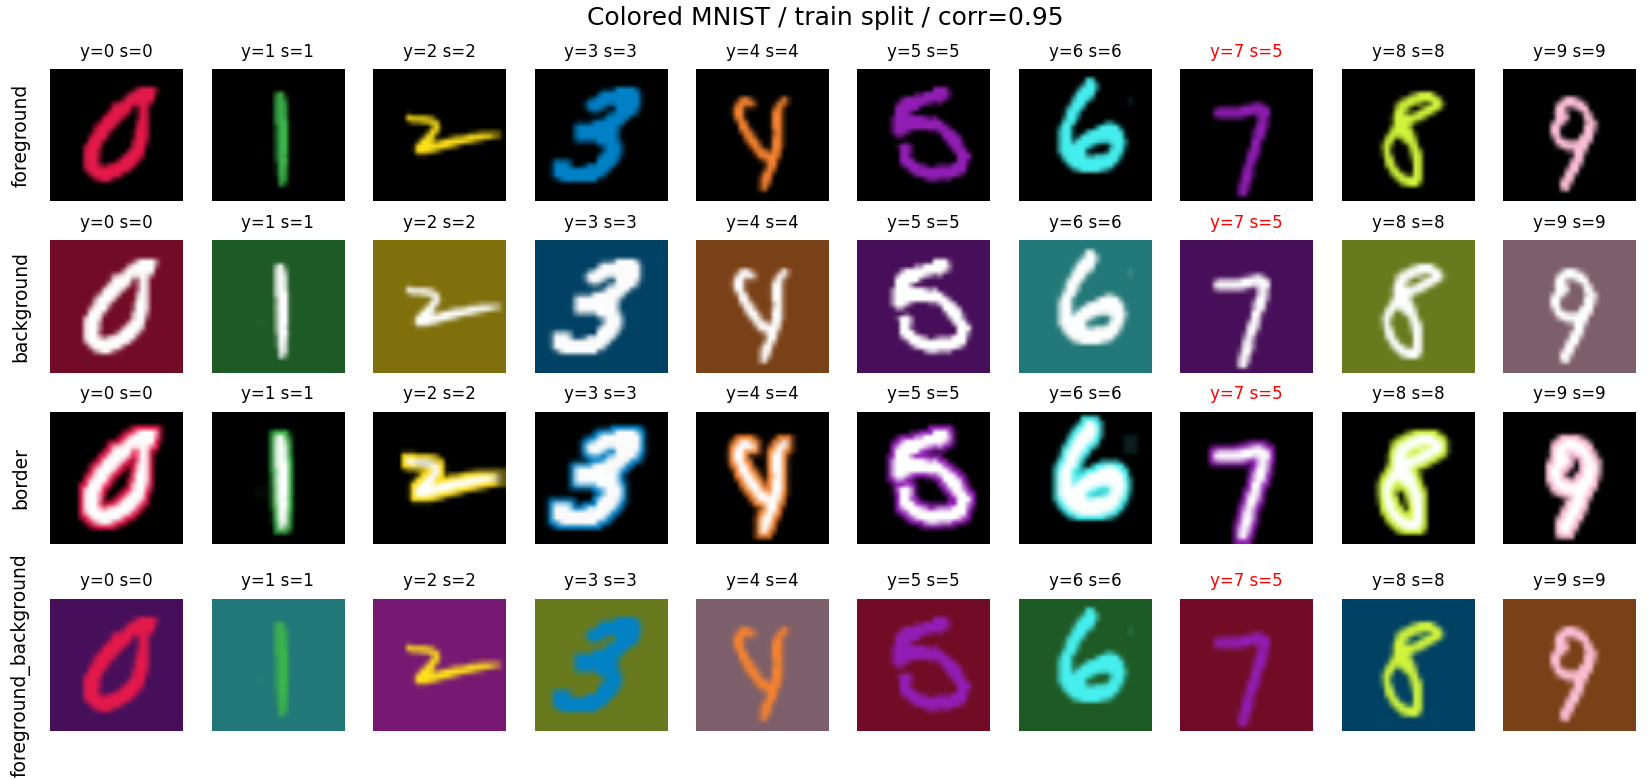
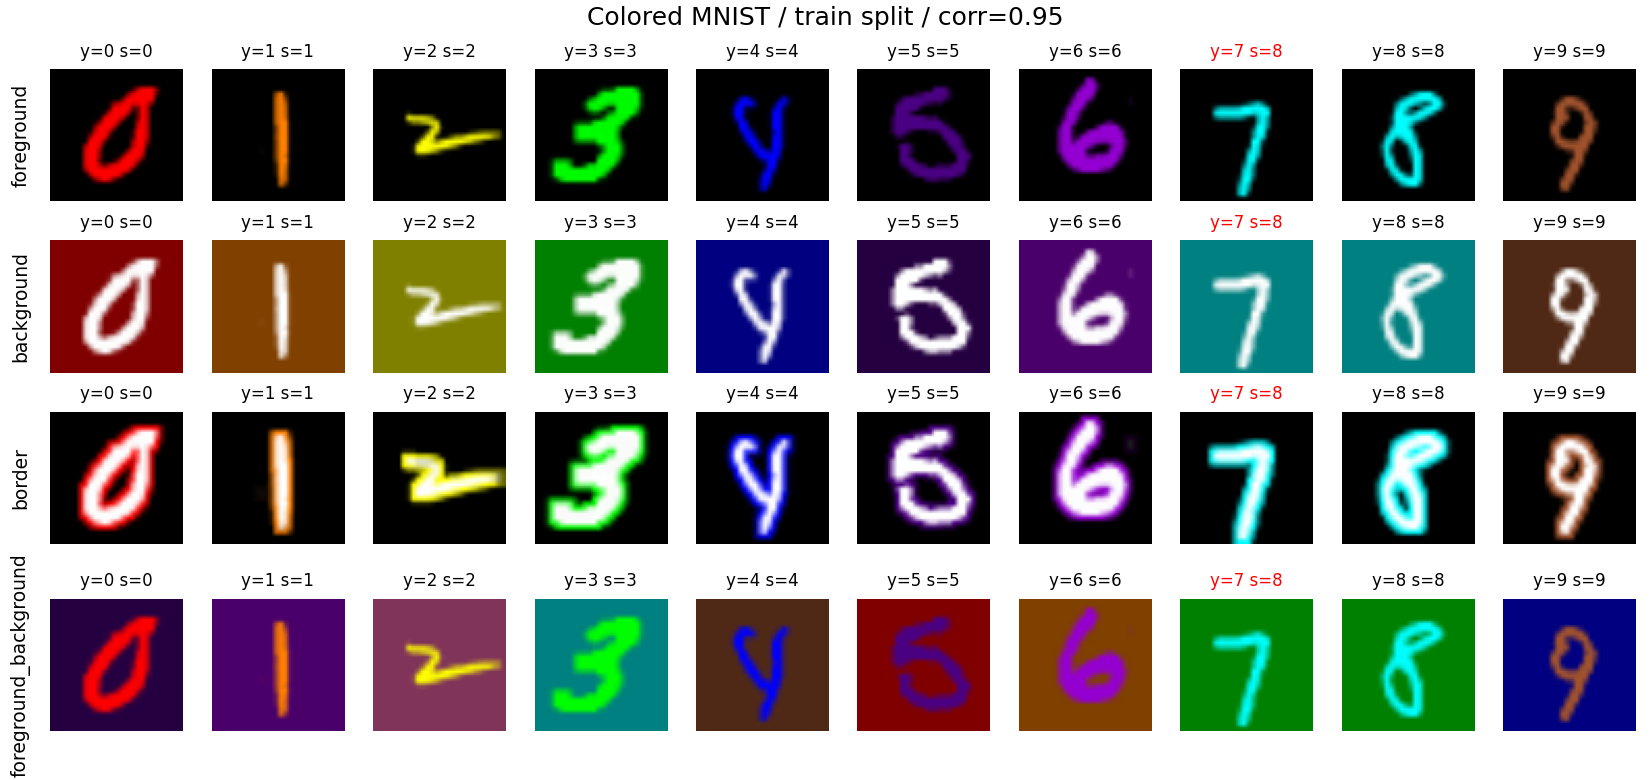
Update: two-color pairing, correlation presets and comparison image for Colored MNIST

diff --git a/data.py b/data.py
@@ -1,14 +1,16 @@
 """Dataset construction for shortcut-learning experiments.
 
 Datasets:
-- colored_mnist: 10-way digit classification, one color per digit, configurable
-  color-label correlation and where the color is painted (see COLOR_MODES).
+- colored_mnist: 10-way digit classification. Each digit has a main and an
+  alternate color (see COLOR_PAIRINGS); the main:alternate ratio is configurable
+  (see CORR_PRESETS), as is where the color is painted (see COLOR_MODES).
 - waterbirds: grodino/waterbirds, image label and background place.
 
 `build_datasets(cfg)` returns {"train", "val", "test"} datasets whose items are
 dicts with `pixel_values`, `labels`, `spurious`, `index` (and optionally
 `cf_pixel_values`). Each dataset also exposes `labels` and `spurious` arrays and
 `num_classes`; both `labels` and `spurious` take values in [0, num_classes).
+`groups` lists the (y, s) pairs that can occur by construction.
 
 Run `python data.py` to save example images for each Colored MNIST color mode.
 """
@@ -27,11 +29,21 @@ IMAGENET_MEAN = (0.485, 0.456, 0.406)
 IMAGENET_STD = (0.229, 0.224, 0.225)
 SPLIT_SEEDS = {"train": 100, "val": 200, "test": 300}
 NUM_CLASSES = {"colored_mnist": 10, "waterbirds": 2}
-# One distinct RGB color per digit; spurious attribute s indexes this palette.
+# Fixed RGB palette; spurious attribute s indexes it and digit k's main color is k.
+# Rainbow (ROYGBIV) plus three chromatic colors, so every color shows on black.
+MNIST_COLOR_NAMES = ("red", "orange", "yellow", "green", "blue", "indigo", "violet",
+                     "pink", "cyan", "brown")
 MNIST_COLORS = np.array([
-    (230, 25, 75), (60, 180, 75), (255, 225, 25), (0, 130, 200), (245, 130, 48),
-    (145, 30, 180), (70, 240, 240), (240, 50, 230), (210, 245, 60), (250, 190, 212),
+    (255, 0, 0), (255, 127, 0), (255, 255, 0), (0, 255, 0), (0, 0, 255),
+    (75, 0, 130), (148, 0, 211), (255, 105, 180), (0, 255, 255), (160, 82, 45),
 ], dtype=np.float32)
+# P(main color) for the training split; val/test default to 0.5 (no color cue
+# beyond the two-color pairing).
+CORR_PRESETS = {"strong": .95, "medium": .80, "weak": .65}
+# How digit k's alternate color is chosen:
+#   next: color (k + 1) % 10.
+#   random: a seeded derangement, so no digit's alternate equals its main color.
+COLOR_PAIRINGS = ("next", "random")
 WHITE = np.array((255, 255, 255), dtype=np.float32)
 BLACK = np.zeros(3, dtype=np.float32)
 # Backgrounds are dimmed so the digit always stays brighter than its surroundings.
@@ -43,6 +55,19 @@ BACKGROUND_SCALE = 0.5
 #   foreground_background: colored digit on a (dimmed) background of a second
 #     color, MNIST_COLORS[(s + 5) % 10], so digit and background never share a hue.
 COLOR_MODES = ("foreground", "background", "border", "foreground_background")
+
+
+def alternate_colors(pairing="next", seed=0, k=10):
+    """Return alt[k]: the alternate color index for each digit (never k itself)."""
+    if pairing == "next":
+        return (np.arange(k) + 1) % k
+    if pairing == "random":
+        rng = np.random.default_rng(seed)
+        while True:
+            alt = rng.permutation(k)
+            if not np.any(alt == np.arange(k)):
+                return alt
+    raise ValueError(f"color pairing must be one of {COLOR_PAIRINGS}")
 
 
 def image_transform(size: int, train: bool = False, augment: bool = False):
@@ -57,15 +82,16 @@ class ColoredMNIST(Dataset):
     """Stable colors assigned once, independently for each disjoint split.
 
     y = digit 0..9. s = color index 0..9 into MNIST_COLORS.
-    P(s == y) = correlation; otherwise s is uniform over the other 9 colors.
+    Each digit y uses only two colors: main color y with probability
+    `correlation`, otherwise alternate color `alt_colors[y]`.
     `color_mode` (one of COLOR_MODES) decides which region carries the color.
-    Counterfactual repaints the same digit pixels with a fixed, per-example
-    random color different from s (no new digit is generated).
+    Counterfactual repaints the same digit pixels with the digit's other color
+    (main <-> alternate); no new digit is generated.
     """
     num_classes = NUM_CLASSES["colored_mnist"]
 
     def __init__(self, base, indices, correlation, seed, size, counterfactual=False,
-                 color_mode="foreground"):
+                 color_mode="foreground", alt_colors=None):
         if not 0 <= correlation <= 1:
             raise ValueError("correlation must be in [0,1]")
         if color_mode not in COLOR_MODES:
@@ -76,12 +102,12 @@ class ColoredMNIST(Dataset):
         digit_labels = np.asarray(base["label"], dtype=np.int64)
         self.labels = digit_labels[self.indices]
         k = self.num_classes
+        alt = alternate_colors() if alt_colors is None else np.asarray(alt_colors, dtype=np.int64)
+        self.groups = [(y, int(s)) for y in range(k) for s in (y, alt[y])]
         rng = np.random.default_rng(seed)
         aligned = rng.random(len(self.indices)) < correlation
-        # A nonzero offset mod k picks uniformly among the colors other than y (or s).
-        other = (self.labels + rng.integers(1, k, len(self.indices))) % k
-        self.spurious = np.where(aligned, self.labels, other).astype(np.int64)
-        self.cf_spurious = (self.spurious + rng.integers(1, k, len(self.indices))) % k
+        self.spurious = np.where(aligned, self.labels, alt[self.labels]).astype(np.int64)
+        self.cf_spurious = np.where(aligned, alt[self.labels], self.labels).astype(np.int64)
         self.transform = image_transform(size)
         self.counterfactual = counterfactual
 
@@ -121,6 +147,7 @@ class ColoredMNIST(Dataset):
 class Waterbirds(Dataset):
     """Hugging Face grodino/waterbirds: label 0/1 and place 0/1."""
     num_classes = NUM_CLASSES["waterbirds"]
+    groups = [(y, s) for y in range(2) for s in range(2)]
 
     def __init__(self, hf_split, size, train=False, augment=False):
         self.base = hf_split
@@ -152,12 +179,14 @@ def build_datasets(cfg):
             raise ValueError(f"mnist_val_size must be between 1 and {n-1}")
         ids = {"train": indices[n_val:], "val": indices[:n_val],
                "test": np.arange(len(raw["test"]))}
+        alt = alternate_colors(cfg.get("color_pairing", "next"), cfg["seed"],
+                               NUM_CLASSES["colored_mnist"])
         return {name: ColoredMNIST(
             base=raw["test"] if name == "test" else raw["train"],
             indices=ids[name], correlation=cfg[f"{name}_corr"],
             seed=cfg["seed"] + SPLIT_SEEDS[name], size=cfg["image_size"],
             counterfactual=(name != "train"),
-            color_mode=cfg.get("color_mode", "foreground")) for name in ("train", "val", "test")}
+            color_mode=cfg.get("color_mode", "foreground"), alt_colors=alt) for name in ("train", "val", "test")}
 
     if cfg["dataset"] == "waterbirds":
         raw = load_dataset("grodino/waterbirds")
@@ -168,10 +197,31 @@ def build_datasets(cfg):
     raise ValueError(f"Unsupported dataset: {cfg['dataset']}")
 
 
+def parse_corr(value):
+    """argparse type: a CORR_PRESETS name or a float in [0, 1]."""
+    if value in CORR_PRESETS:
+        return CORR_PRESETS[value]
+    try:
+        x = float(value)
+    except ValueError:
+        raise argparse.ArgumentTypeError(
+            f"expected a float or one of {list(CORR_PRESETS)}, got {value!r}") from None
+    if not 0 <= x <= 1:
+        raise argparse.ArgumentTypeError("correlation must be in [0, 1]")
+    return x
+
+
 def to_image(pixel_values):
     """Undo ImageNet normalization: [3,H,W] tensor -> [H,W,3] float array in [0,1]."""
     x = pixel_values.permute(1, 2, 0).numpy()
     return (x * np.asarray(IMAGENET_STD) + np.asarray(IMAGENET_MEAN)).clip(0, 1)
+
+
+def example_cfg(cfg=None):
+    """Training-default Colored MNIST config, overridden by `cfg`."""
+    return {"dataset": "colored_mnist", "seed": 42, "mnist_val_size": 5000,
+            "train_corr": CORR_PRESETS["strong"], "val_corr": .50, "test_corr": .50,
+            "image_size": 64, **(cfg or {})}
 
 
 def save_colored_mnist_examples(out_file, color_modes=COLOR_MODES, split="train",
@@ -184,9 +234,7 @@ def save_colored_mnist_examples(out_file, color_modes=COLOR_MODES, split="train"
     """
     import matplotlib.pyplot as plt
 
-    cfg = {"dataset": "colored_mnist", "seed": 42, "mnist_val_size": 5000,
-           "train_corr": .95, "val_corr": .50, "test_corr": .10, "image_size": 64,
-           **(cfg or {})}
+    cfg = example_cfg(cfg)
     k = NUM_CLASSES["colored_mnist"]
     rows = len(color_modes) * per_digit
     fig, axes = plt.subplots(rows, k, figsize=(k * 1.1, rows * 1.3), squeeze=False,
@@ -214,23 +262,75 @@ def save_colored_mnist_examples(out_file, color_modes=COLOR_MODES, split="train"
     print(f"Saved {out_file}")
 
 
+def save_corr_comparison(out_file, color_mode="foreground", samples=20, cols=5, cfg=None):
+    """Compare CORR_PRESETS on the train split: one row per preset, one column per digit.
+
+    Each cell is a mosaic of the first `samples` training images of that digit,
+    so the share of alternate-color digits is visible at a glance. The same
+    samples appear in every row; a sample with the alternate color under a
+    stronger preset keeps it under weaker ones (the Bernoulli draws are shared).
+    """
+    import matplotlib.pyplot as plt
+
+    cfg = example_cfg({"image_size": 28, **(cfg or {}), "color_mode": color_mode})
+    k = NUM_CLASSES["colored_mnist"]
+    fig, axes = plt.subplots(len(CORR_PRESETS), k, figsize=(k * 1.4, len(CORR_PRESETS) * 1.45),
+                             squeeze=False, layout="constrained")
+    for r, (name, corr) in enumerate(CORR_PRESETS.items()):
+        ds = build_datasets({**cfg, "train_corr": corr})["train"]
+        for d in range(k):
+            chosen = np.flatnonzero(ds.labels == d)[:samples]
+            tiles = [to_image(ds[int(i)]["pixel_values"]) for i in chosen]
+            tiles += [np.zeros_like(tiles[0])] * (-len(tiles) % cols)
+            mosaic = np.concatenate([np.concatenate(tiles[j:j + cols], axis=1)
+                                     for j in range(0, len(tiles), cols)], axis=0)
+            n_alt = int((ds.spurious[chosen] != d).sum())
+            ax = axes[r, d]
+            ax.imshow(mosaic)
+            ax.set_xticks([])
+            ax.set_yticks([])
+            ax.set_title(f"{d}: alt {n_alt}/{len(chosen)}", fontsize=8)
+        actual = float((ds.labels == ds.spurious).mean())
+        axes[r, 0].set_ylabel(f"{name}\n{corr:.0%}:{1 - corr:.0%}\nactual {actual:.3f}", fontsize=9)
+    fig.suptitle(f"Colored MNIST train split / main:alternate color ratio / {color_mode} / "
+                 f"pairing={cfg.get('color_pairing', 'next')}")
+    out_file = Path(out_file)
+    out_file.parent.mkdir(parents=True, exist_ok=True)
+    fig.savefig(out_file, dpi=150)
+    plt.close(fig)
+    print(f"Saved {out_file}")
+
+
 def main():
-    parser = argparse.ArgumentParser(description="Save example images for each Colored MNIST color mode.")
+    parser = argparse.ArgumentParser(
+        description="Save Colored MNIST example images: one per color mode, plus a "
+                    "strong/medium/weak correlation comparison.")
     parser.add_argument("--output", default="images/colored_mnist_examples.png")
     parser.add_argument("--color-modes", nargs="+", choices=COLOR_MODES, default=list(COLOR_MODES))
     parser.add_argument("--split", choices=["train", "val", "test"], default="train")
     parser.add_argument("--per-digit", type=int, default=1, help="samples shown per digit and mode")
-    parser.add_argument("--corr", type=float, default=None,
-                        help="color-digit correlation for the chosen split (default: training default)")
+    parser.add_argument("--corr", type=parse_corr, default=None,
+                        help="P(main color) for the chosen split: a float or one of "
+                             f"{list(CORR_PRESETS)} (default: training default)")
+    parser.add_argument("--color-pairing", choices=COLOR_PAIRINGS, default="next")
     parser.add_argument("--seed", type=int, default=42)
     parser.add_argument("--image-size", type=int, default=64)
+    parser.add_argument("--corr-output", default="images/colored_mnist_corr_comparison.png",
+                        help="strong/medium/weak comparison image; pass '' to skip")
+    parser.add_argument("--corr-mode", choices=COLOR_MODES, default="foreground",
+                        help="color mode used in the comparison image")
+    parser.add_argument("--corr-samples", type=int, default=20,
+                        help="samples per digit in each comparison cell")
     args = parser.parse_args()
-    if args.per_digit <= 0:
-        parser.error("--per-digit must be positive")
-    cfg = {"seed": args.seed, "image_size": args.image_size}
+    if args.per_digit <= 0 or args.corr_samples <= 0:
+        parser.error("--per-digit and --corr-samples must be positive")
+    cfg = {"seed": args.seed, "image_size": args.image_size, "color_pairing": args.color_pairing}
     if args.corr is not None:
         cfg[f"{args.split}_corr"] = args.corr
     save_colored_mnist_examples(args.output, args.color_modes, args.split, args.per_digit, cfg)
+    if args.corr_output:
+        save_corr_comparison(args.corr_output, args.corr_mode, args.corr_samples,
+                             cfg={"seed": args.seed, "color_pairing": args.color_pairing})
 
 
 if __name__ == "__main__":

diff --git a/shortcut_experiment.py b/shortcut_experiment.py
@@ -22,7 +22,8 @@ from torch import nn
 from torch.utils.data import DataLoader, Subset
 from torchvision import models
 
-from data import COLOR_MODES, NUM_CLASSES, build_datasets
+from data import (COLOR_MODES, COLOR_PAIRINGS, CORR_PRESETS, NUM_CLASSES, build_datasets,
+                  parse_corr)
 
 
 def seed_everything(seed: int):
@@ -231,17 +232,18 @@ def evaluate(model, loader, device, amp=False):
     result = {"loss": ratio(loss_sum, total), "acc": ratio(correct, total),
               "aligned_acc": ratio(aligned_ok, aligned_n),
               "conflicting_acc": ratio(conflicted_ok, conflicted_n)}
+    # Only groups that can occur by construction (e.g. 2 colors per digit) are reported.
     populated = []
-    for yi in range(k):
-        for si in range(k):
-            key = f"g{yi}{si}"
-            v = ratio(int(group_correct[yi, si]), int(group_total[yi, si]))
-            result[f"{key}_acc"] = v
-            result[f"{key}_n"] = int(group_total[yi, si])
-            if group_total[yi, si] > 0:
-                populated.append(v)
-    # Require all k*k groups; otherwise WGA is undefined rather than inflated.
-    result["wga"] = min(populated) if len(populated) == k * k else float("nan")
+    for yi, si in loader.dataset.groups:
+        key = f"g{yi}{si}"
+        v = ratio(int(group_correct[yi, si]), int(group_total[yi, si]))
+        result[f"{key}_acc"] = v
+        result[f"{key}_n"] = int(group_total[yi, si])
+        if group_total[yi, si] > 0:
+            populated.append(v)
+    # Require every possible group; otherwise WGA is undefined rather than inflated.
+    result["wga"] = (min(populated) if len(populated) == len(loader.dataset.groups)
+                     else float("nan"))
     result["cf_acc"] = ratio(cf_ok, cf_n)
     result["cf_flip_rate"] = ratio(cf_flips, cf_n)
     result["cf_acc_drop"] = result["acc"] - result["cf_acc"] if cf_n else float("nan")
@@ -325,7 +327,7 @@ def configure_from_args(args):
             "seed": args.seed, "image_size": args.image_size,
             "train_corr": args.train_corr, "val_corr": args.val_corr,
             "test_corr": args.test_corr, "mnist_val_size": args.mnist_val_size,
-            "color_mode": args.color_mode,
+            "color_mode": args.color_mode, "color_pairing": args.color_pairing,
             "pretrained": args.pretrained, "augment": args.augment,
             "lr": args.lr, "weight_decay": args.weight_decay,
             "batch_size": args.batch_size, "num_workers": args.num_workers,
@@ -464,12 +466,15 @@ def main():
     train.add_argument("--seed", type=int, default=42)
     train.add_argument("--image-size", type=int, default=None,
                        help="64 for colored_mnist; 128 for waterbirds by default")
-    train.add_argument("--train-corr", type=float, default=.95)
-    train.add_argument("--val-corr", type=float, default=.50)
-    train.add_argument("--test-corr", type=float, default=.10)
+    corr_help = "colored_mnist: P(main color), a float or one of " + str(list(CORR_PRESETS))
+    train.add_argument("--train-corr", type=parse_corr, default="strong", help=corr_help)
+    train.add_argument("--val-corr", type=parse_corr, default=.50, help=corr_help)
+    train.add_argument("--test-corr", type=parse_corr, default=.50, help=corr_help)
     train.add_argument("--mnist-val-size", type=int, default=5000)
     train.add_argument("--color-mode", choices=COLOR_MODES, default="foreground",
                        help="colored_mnist only: region painted with the shortcut color")
+    train.add_argument("--color-pairing", choices=COLOR_PAIRINGS, default="next",
+                       help="colored_mnist only: how each digit's alternate color is chosen")
     train.add_argument("--pretrained", action="store_true",
                        help="use ImageNet pretrained weights (recommended for Waterbirds)")
     train.add_argument("--augment", action="store_true", help="horizontal flips on Waterbirds train only")

diff --git a/README.md b/README.md
@@ -14,12 +14,15 @@ Use a PyTorch+TorchVision version combination appropriate for your system/CUDA. 
 
 ```bash
 # Colored MNIST: 10-way target = digit 0-9
-# shortcut = color index 0-9 (one fixed color per digit); train P(shortcut==target)=0.95
+# shortcut = color index 0-9; each digit has a main color and one alternate color
+# --train-corr strong|medium|weak = main:alternate 95:05 | 80:20 | 65:35 (or any float); val/test 50:50
+# --color-pairing next|random = alternate color of digit k is color k+1, or a seeded random pairing
 python shortcut_experiment.py train --dataset colored_mnist --model resnet18 --epochs 20 --output runs/cm_resnet
 python shortcut_experiment.py train --dataset colored_mnist --model vgg11_bn --epochs 20 --output runs/cm_vgg
 # --color-mode chooses where the shortcut color is painted (default: foreground)
 #   foreground | background | border | foreground_background
 python shortcut_experiment.py train --dataset colored_mnist --model resnet18 --color-mode background --output runs/cm_resnet_bg
+python shortcut_experiment.py train --dataset colored_mnist --model resnet18 --train-corr weak --color-pairing random --output runs/cm_resnet_weak
 # Preview the dataset (saved to images/colored_mnist_examples.png by default)
 python data.py
 python data.py --color-modes border background --split test --per-digit 2 --output images/test_examples.png
@@ -37,6 +40,10 @@ Default image size: 64 for Colored MNIST and 128 for Waterbirds (can override wi
 ![Colored MNIST examples for each color mode](images/colored_mnist_examples.png)
 
 One row per `--color-mode`; columns are digits 0-9 and the same samples appear in every row, so only the colored region differs. Titles show target `y` and shortcut color `s`; red titles mark conflicting samples (`s != y`). Regenerate with `python data.py`.
+
+![Main vs alternate color share for strong/medium/weak](images/colored_mnist_corr_comparison.png)
+
+`--train-corr` presets on the train split (`foreground` mode, `--color-pairing next`). Each cell shows the first 20 training images of one digit; `alt n/20` counts those painted with the alternate color, and the row label gives the preset ratio and the actual split-wide share of main colors. The same images appear in every row, and an image that gets the alternate color under a stronger preset keeps it under weaker ones. `python data.py` writes both images; `--corr-mode`, `--corr-samples` and `--corr-output ''` (skip) control this one.
 
 ### Resume from any epoch (optimizer + scheduler + AMP state included)
 
@@ -85,15 +92,15 @@ runs/<name>/
 ## Metrics and interpretation
 
 * `val_acc`: standard classification accuracy.
-* `val_g{y}{s}_acc`: accuracy conditioned on target **y** and spurious attribute **s** (4 groups for Waterbirds, 100 for Colored MNIST). `val_g{y}{s}_n`: counts.
-* `val_wga`: minimum accuracy across **all (y, s) groups**; NaN if any group has zero examples.
+* `val_g{y}{s}_acc`: accuracy conditioned on target **y** and spurious attribute **s** (4 groups for Waterbirds; 20 for Colored MNIST, i.e. each digit with its main and alternate color). `val_g{y}{s}_n`: counts.
+* `val_wga`: minimum accuracy across **all possible (y, s) groups**; NaN if any of them has zero examples.
 * `val_aligned_acc`, `val_conflicting_acc`: accuracy when `y==s` vs `y!=s`. A growing gap suggests shortcut dependence, not definitive proof by itself.
-* Colored MNIST only: `val_cf_flip_rate` is fraction of samples for which the prediction changes when **the same digit** is repainted with a different color (one random other color per example, fixed by seed). `val_cf_acc` accuracy after the recolor; `val_cf_acc_drop` original accuracy minus recolored accuracy (the drop may be negative). **Flip rate is the most direct intervention-based reliance metric here.** Waterbirds has no naive analogous intervention: it would need a genuine same-bird alternate-background pair to avoid confounds.
+* Colored MNIST only: `val_cf_flip_rate` is fraction of samples for which the prediction changes when **the same digit** is repainted with its digit's other color (main ↔ alternate). `val_cf_acc` accuracy after the recolor; `val_cf_acc_drop` original accuracy minus recolored accuracy (the drop may be negative). **Flip rate is the most direct intervention-based reliance metric here.** Waterbirds has no naive analogous intervention: it would need a genuine same-bird alternate-background pair to avoid confounds.
 * Feature snapshot and PCA: visualization of what features are *represented*. Decodability/separation is **not evidence** by itself that the classifier uses a feature causally.
 
 ## Dataset protocol and caution
 
-* `ylecun/mnist`: split the official train into 55,000 train and 5,000 validation via a fixed seed; use the official 10,000 test images. The color assignment is *fixed per example* across epochs, not resampled per access. Each digit k has a fixed color `MNIST_COLORS[k]` (see `data.py`); with probability `corr` an example gets its digit's color, otherwise a color drawn uniformly from the other 9. `--train-corr .95`, `--val-corr .50`, `--test-corr .10` are independent Bernoulli assignments, so actual sample proportions may differ slightly. With 10 colors, `corr=0.10` means color is independent of the digit (chance level). `--color-mode` sets which region carries the color: `foreground` (colored digit on black), `background` (white digit on a dimmed colored background), `border` (white digit with a colored outline on black), or `foreground_background` (colored digit on a dimmed background of a second color `MNIST_COLORS[(s+5)%10]`). The counterfactual recolor uses the same mode. This is **one 10-class Colored MNIST construction**, not a claim to reproduce every paper's Colored MNIST protocol.
+* `ylecun/mnist`: split the official train into 55,000 train and 5,000 validation via a fixed seed; use the official 10,000 test images. The color assignment is *fixed per example* across epochs, not resampled per access. The palette is fixed: red, orange, yellow, green, blue, indigo, violet, pink, cyan, brown (`MNIST_COLORS` in `data.py`); white/gray/black are excluded so every color is visible on the black canvas. Digit k's main color is color k and its alternate color is color k+1 (`--color-pairing next`) or a seeded random derangement (`random`). With probability `corr` an example gets the main color, otherwise the alternate. Presets: `strong` 0.95, `medium` 0.80, `weak` 0.65; val and test default to 0.50, where color alone no longer favors either of the digit's two colors. These are independent Bernoulli assignments, so actual sample proportions may differ slightly. `--color-mode` sets which region carries the color: `foreground` (colored digit on black), `background` (white digit on a dimmed colored background), `border` (white digit with a colored outline on black), or `foreground_background` (colored digit on a dimmed background of a second color `MNIST_COLORS[(s+5)%10]`). The counterfactual recolor uses the same mode. This is **one 10-class Colored MNIST construction**, not a claim to reproduce every paper's Colored MNIST protocol.
 * `grodino/waterbirds`: Hugging Face train/validation/test splits, label = landbird(0)/waterbird(1), place = land(0)/water(1), so Waterbirds `P(place==label)` is mostly high in train and more balanced in validation/test. The runner uses the dataset's actual metadata labels and group splits rather than resampling background correlations.
 * To avoid selecting a model on the test set, validation is evaluated each epoch and the test set **once at the final epoch**. You can separately load earlier checkpoints to evaluate them for a retrospective analysis, but do not tune hyperparameters using those test outcomes.
 * For Waterbirds, foreground/background are composite natural images. Worst-group accuracy can be noisy for small groups. Cross-seed statistics/uncertainty intervals strengthen conclusions.
